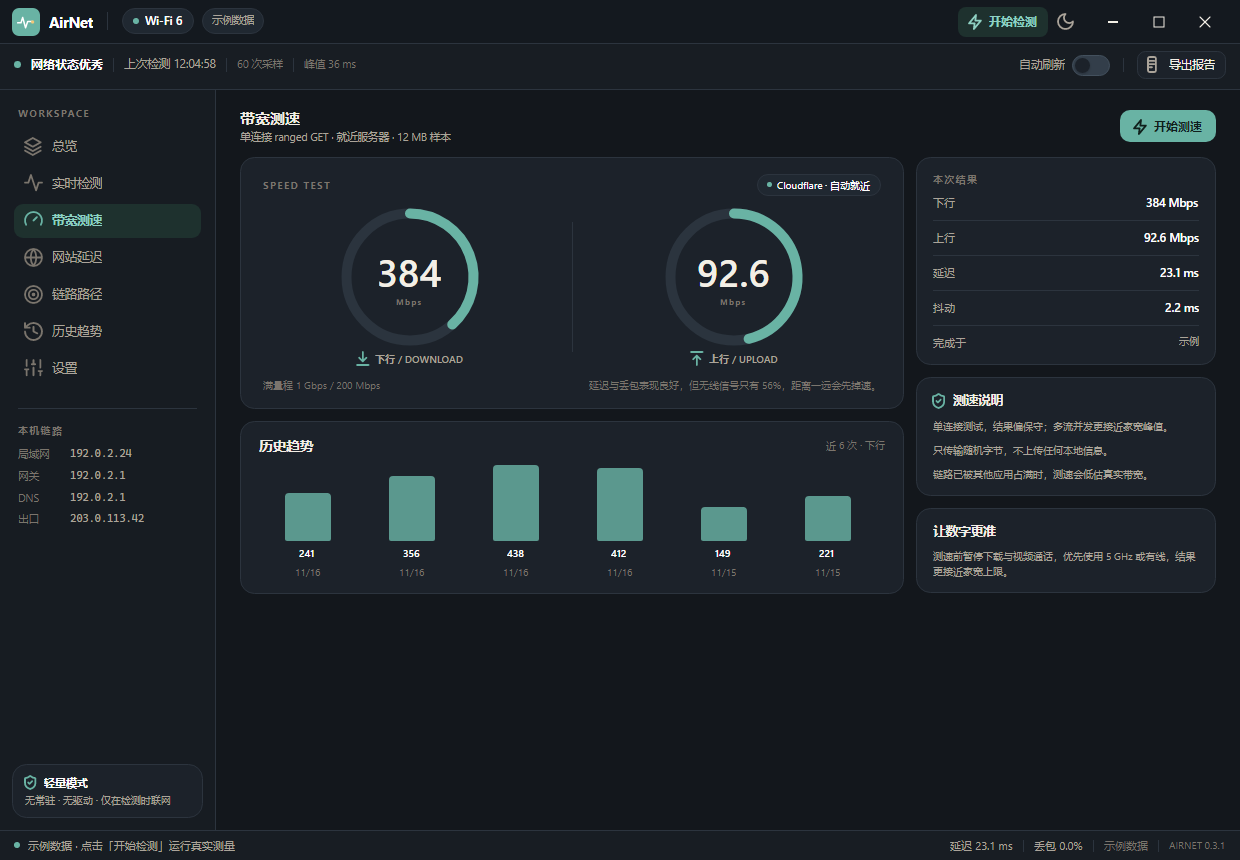
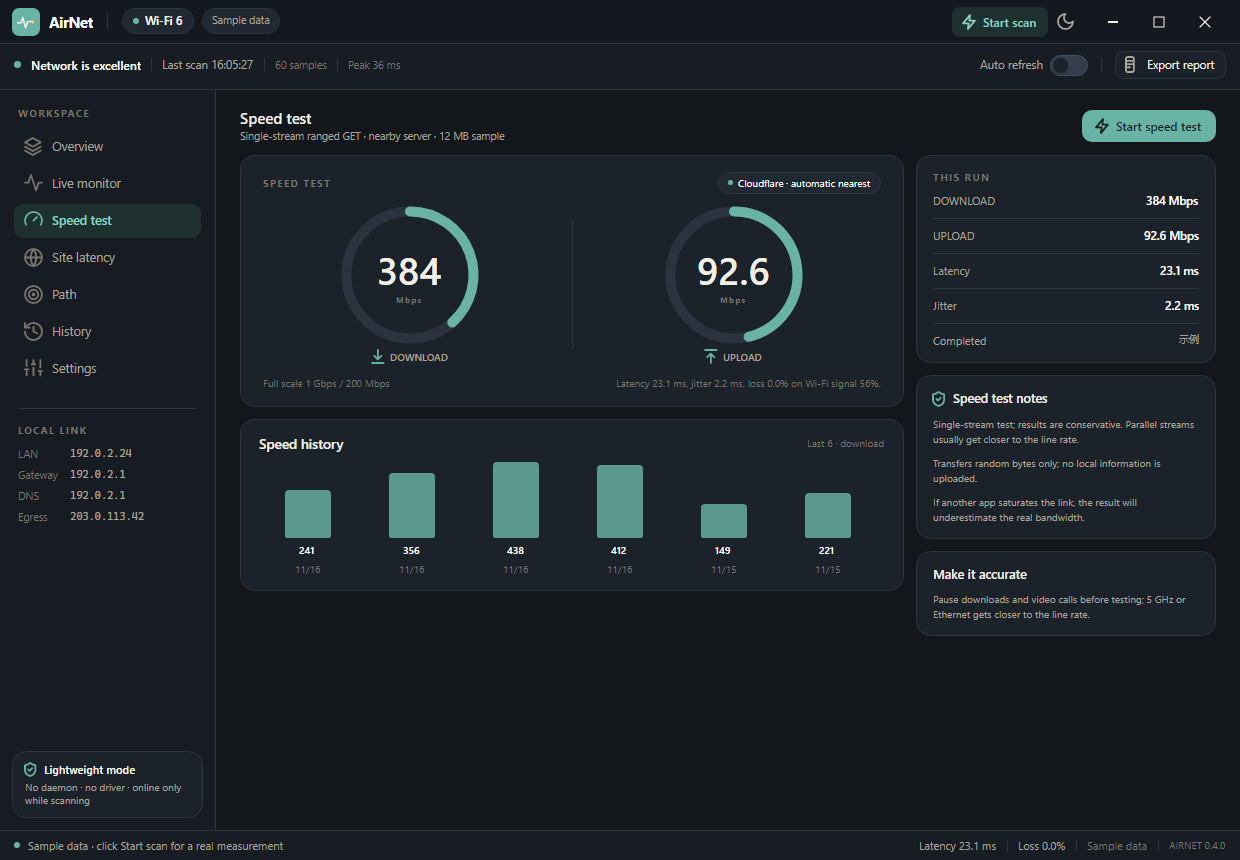
release: 0.4.0
Ship the Chinese/English UI, DNS audit, history A/B comparison, updated docs and screenshots; remove the headless CLI. Store package 1.1.0.0 is built and ready for Partner Center.

diff --git a/src/AirNet.App/ViewModels/SiteLatencyViewModel.cs b/src/AirNet.App/ViewModels/SiteLatencyViewModel.cs
@@ -154,21 +154,37 @@ public sealed class CustomSiteRow
 
 internal static class SiteBadge
 {
-    public static string For(SiteTarget target) => target.Id switch
-    {
-        "baidu" => "百",
-        "tencent" => "腾",
-        "douyin" => "抖",
-        "xiaohongshu" => "小",
-        "bilibili" => "哔",
-        "zhihu" => "知",
-        "weibo" => "微",
-        "github" => "GH",
-        "google" => "G",
-        "youtube" => "Y",
-        "x" => "X",
-        _ => string.IsNullOrEmpty(target.Name) ? "?" : target.Name[..1].ToUpperInvariant(),
-    };
+    public static string For(SiteTarget target) => LocalizationService.Current.IsChinese
+        ? target.Id switch
+        {
+            "baidu" => "百",
+            "tencent" => "腾",
+            "douyin" => "抖",
+            "xiaohongshu" => "小",
+            "bilibili" => "哔",
+            "zhihu" => "知",
+            "weibo" => "微",
+            "github" => "GH",
+            "google" => "G",
+            "youtube" => "Y",
+            "x" => "X",
+            _ => string.IsNullOrEmpty(target.Name) ? "?" : target.Name[..1].ToUpperInvariant(),
+        }
+        : target.Id switch
+        {
+            "baidu" => "B",
+            "tencent" => "T",
+            "douyin" => "D",
+            "xiaohongshu" => "X",
+            "bilibili" => "B",
+            "zhihu" => "Z",
+            "weibo" => "W",
+            "github" => "GH",
+            "google" => "G",
+            "youtube" => "Y",
+            "x" => "X",
+            _ => string.IsNullOrEmpty(target.Name) ? "?" : target.Name[..1].ToUpperInvariant(),
+        };
 }
 
 /// <summary>Page state for the on-demand site latency test and its custom-site manager.</summary>
@@ -450,7 +466,7 @@ public partial class SiteLatencyViewModel : ObservableObject
         _results.Clear();
         _lastReport = null;
         _sortByTotal = false;
-        TestStatusText = $"正在测试 {_catalog.Count} 个站点…";
+        TestStatusText = LocFmt("L.TestingSiteCount", _catalog.Count);
         RefreshRows();
         NotifySummary();
         IsTesting = true;
@@ -507,11 +523,11 @@ public partial class SiteLatencyViewModel : ObservableObject
         }
         catch (OperationCanceledException)
         {
-            TestStatusText = "测试已取消";
+            TestStatusText = T("L.TestCancelled");
         }
         catch (Exception ex)
         {
-            TestStatusText = $"测试失败：{ex.Message}";
+            TestStatusText = LocFmt("L.TestFailedFormat", ex.Message);
         }
         finally
         {
@@ -525,7 +541,7 @@ public partial class SiteLatencyViewModel : ObservableObject
     private void StopTest()
     {
         _cts?.Cancel();
-        TestStatusText = "正在停止…";
+        TestStatusText = T("L.Stopping");
     }
 
     [RelayCommand]
@@ -563,17 +579,17 @@ public partial class SiteLatencyViewModel : ObservableObject
 
         IsTestingDraft = true;
         DraftError = string.Empty;
-        DraftTestText = "测试中…";
+        DraftTestText = T("L.DraftTesting");
         try
         {
             var timing = await ApplicationTimingProbe.MeasureAsync(host, timeoutMs: 6000).ConfigureAwait(true);
             DraftTestText = timing.Succeeded
-                ? $"DNS {timing.DnsMs:0} · TCP {timing.TcpMs:0} · TLS {timing.TlsMs:0} · 首包 {timing.TtfbMs:0} = {timing.TotalMs:0} ms"
-                : timing.FailureNote ?? "测试失败";
+                ? LocFmt("L.DraftTiming", timing.DnsMs, timing.TcpMs, timing.TlsMs, timing.TtfbMs, timing.TotalMs)
+                : timing.FailureNote ?? T("L.TestFailed");
         }
         catch (Exception ex) when (ex is not OperationCanceledException)
         {
-            DraftTestText = $"测试失败：{ex.Message}";
+            DraftTestText = LocFmt("L.TestFailedFormat", ex.Message);
         }
         finally
         {
@@ -594,7 +610,7 @@ public partial class SiteLatencyViewModel : ObservableObject
 
         if (_editingId is null && next.Count >= CustomSiteRules.MaxCustomSites)
         {
-            DraftError = $"最多只能添加 {CustomSiteRules.MaxCustomSites} 个自定义站点";
+            DraftError = LocFmt("L.DraftMaxSites", CustomSiteRules.MaxCustomSites);
             return;
         }
 
@@ -639,11 +655,11 @@ public partial class SiteLatencyViewModel : ObservableObject
         _editingId = null;
         DraftName = string.Empty;
         DraftHost = string.Empty;
-        DraftError = persisted ? string.Empty : "站点已加入本次列表，但写入 sites.json 失败；重启后会丢失。";
+        DraftError = persisted ? string.Empty : T("L.DraftSaveFailed");
         DraftTestText = string.Empty;
         _shell.StatusMessage = persisted
-            ? $"已保存自定义站点：{target.Name}"
-            : $"自定义站点已加入列表，但写入 sites.json 失败：{target.Name}";
+            ? LocFmt("L.SiteSaved", target.Name)
+            : LocFmt("L.SiteSavedNoWrite", target.Name);
     }
 
     public void EditCustom(SiteTarget target)
@@ -666,11 +682,11 @@ public partial class SiteLatencyViewModel : ObservableObject
             _pendingDeleteId = null;
             var persisted = PersistCustom(remaining);
             _shell.StatusMessage = persisted
-                ? $"已删除自定义站点：{target.Name}"
-                : $"自定义站点已从列表移除，但写入 sites.json 失败：{target.Name}";
+                ? LocFmt("L.SiteDeleted", target.Name)
+                : LocFmt("L.SiteDeletedNoWrite", target.Name);
             if (!persisted)
             {
-                DraftError = "站点已从本次列表移除，但写入 sites.json 失败；重启后会恢复。";
+                DraftError = T("L.SiteDeleteFailed");
             }
 
             return;

diff --git a/src/AirNet.App/ViewModels/OverviewViewModel.cs b/src/AirNet.App/ViewModels/OverviewViewModel.cs
@@ -151,6 +151,19 @@ public partial class OverviewViewModel : ObservableObject
     private static string T(string key) => LocalizationService.Current.T(key);
     private static string Lfmt(string key, params object[] args) => LocalizationService.Current.Format(key, args);
 
+    private static string LocalizeNat(string summary)
+    {
+        if (LocalizationService.Current.IsChinese)
+        {
+            return summary;
+        }
+
+        return summary
+            .Replace("端口保持（锥形 NAT 可能）", "Port preserved (cone NAT likely)", StringComparison.Ordinal)
+            .Replace("端口变化（对称 NAT 可能）", "Port changes (symmetric NAT likely)", StringComparison.Ordinal)
+            .Replace(" · 映射地址变化", " · mapped address changes", StringComparison.Ordinal);
+    }
+
     private static string LocalizeInterfaceKind(string kind) => kind switch
     {
         "有线以太网" => T("L.Ethernet"),
@@ -182,6 +195,19 @@ public partial class MonitorViewModel : ObservableObject
 {
     private static string T(string key) => LocalizationService.Current.T(key);
     private static string Lfmt(string key, params object[] args) => LocalizationService.Current.Format(key, args);
+
+    private static string LocalizeNat(string summary)
+    {
+        if (LocalizationService.Current.IsChinese)
+        {
+            return summary;
+        }
+
+        return summary
+            .Replace("端口保持（锥形 NAT 可能）", "Port preserved (cone NAT likely)", StringComparison.Ordinal)
+            .Replace("端口变化（对称 NAT 可能）", "Port changes (symmetric NAT likely)", StringComparison.Ordinal)
+            .Replace(" · 映射地址变化", " · mapped address changes", StringComparison.Ordinal);
+    }
 
     private readonly List<double> _liveSeries = new();
     private string _liveSource = string.Empty;
@@ -353,8 +379,8 @@ public partial class MonitorViewModel : ObservableObject
             HasGameModeResult = true;
             GameModeHeadline = result.UdpReachable ? T("L.UdpReachable") : T("L.UdpUnreachable");
             GameModeDetail = result.UdpReachable
-                ? $"STUN RTT {result.RttMs:0.0} ms · {T("L.Jitter")} {result.JitterMs:0.0} ms · {T("L.Loss")} {result.LossPercent:0.0}% · {result.NatSummary}"
-                : $"{result.NatSummary} · {T("L.Target")} {result.Target}";
+                ? $"STUN RTT {result.RttMs:0.0} ms · {T("L.Jitter")} {result.JitterMs:0.0} ms · {T("L.Loss")} {result.LossPercent:0.0}% · {LocalizeNat(result.NatSummary)}"
+                : $"{LocalizeNat(result.NatSummary)} · {T("L.Target")} {result.Target}";
             ModeStatusText = result.UdpReachable ? T("L.GameDoneOk") : T("L.GameDoneFail");
         }
         catch (Exception ex)

diff --git a/src/AirNet.App/Localization/LocalizationService.cs b/src/AirNet.App/Localization/LocalizationService.cs
@@ -449,6 +449,25 @@ public sealed class LocalizationService
             ["L.HopReference"] = ("Reference host", "参考主机"),
             ["L.Unknown"] = ("Unknown", "未知"),
             ["L.WaitSegment"] = ("Wait", "等待"),
+            ["L.TestingSiteCount"] = ("Testing {0} sites…", "正在测试 {0} 个站点…"),
+            ["L.TestFailedFormat"] = ("Test failed: {0}", "测试失败：{0}"),
+            ["L.DraftTesting"] = ("Testing…", "测试中…"),
+            ["L.DraftTiming"] = ("DNS {0} · TCP {1} · TLS {2} · first byte {3} = {4} ms", "DNS {0} · TCP {1} · TLS {2} · 首包 {3} = {4} ms"),
+            ["L.DraftMaxSites"] = ("You can add at most {0} custom sites", "最多只能添加 {0} 个自定义站点"),
+            ["L.DraftSaveFailed"] = ("The site was added to this list, but writing sites.json failed; it will disappear after restart.", "站点已加入本次列表，但写入 sites.json 失败；重启后会丢失。"),
+            ["L.SiteSaved"] = ("Custom site saved: {0}", "已保存自定义站点：{0}"),
+            ["L.SiteSavedNoWrite"] = ("Custom site added, but writing sites.json failed: {0}", "自定义站点已加入列表，但写入 sites.json 失败：{0}"),
+            ["L.SiteDeleted"] = ("Custom site deleted: {0}", "已删除自定义站点：{0}"),
+            ["L.SiteDeletedNoWrite"] = ("Custom site removed, but writing sites.json failed: {0}", "自定义站点已从列表移除，但写入 sites.json 失败：{0}"),
+            ["L.SiteDeleteFailed"] = ("The site was removed from this list, but writing sites.json failed; it will return after restart.", "站点已从本次列表移除，但写入 sites.json 失败；重启后会恢复。"),
+            ["L.ExportReportTitle"] = ("Export AirNet report", "导出 AirNet 报告"),
+            ["L.HtmlReport"] = ("HTML report", "HTML 报告"),
+            ["L.ReportExported"] = ("Report exported: {0}", "报告已导出：{0}"),
+            ["L.DiagnosticCopyTitle"] = ("AirNet network diagnostics", "AirNet 网络诊断"),
+            ["L.DiagnosticCopyMeta"] = ("Time {0} · interface {1} · {2} → {3}", "时间 {0} · 接口 {1} · {2} → {3}"),
+            ["L.DiagnosticCopyScore"] = ("Score {0} / {1} · {2}", "评分 {0} / {1} · {2}"),
+            ["L.DiagnosticCopyLatency"] = ("Latency {0} ms (P95 {1}) · jitter {2} ms · loss {3}%", "延迟 {0} ms（P95 {1}）· 抖动 {2} ms · 丢包 {3}%"),
+            ["L.DiagnosticCopyBandwidth"] = ("Download {0} · egress {1}", "下载 {0} · 出口 {1}"),
             ["L.StartSpeedTest"] = ("Start speed test", "开始测速"),
             ["L.TestingSpeed"] = ("Testing…", "测速中…"),
             ["L.FullScale"] = ("Full scale 1 Gbps / 200 Mbps", "满量程 1 Gbps / 200 Mbps"),

diff --git a/src/AirNet.App/ViewModels/ShellViewModel.cs b/src/AirNet.App/ViewModels/ShellViewModel.cs
@@ -386,12 +386,12 @@ public partial class ShellViewModel : ObservableObject
     {
         var file = await top.StorageProvider.SaveFilePickerAsync(new FilePickerSaveOptions
         {
-            Title = "导出 AirNet 报告",
+            Title = T("L.ExportReportTitle"),
             SuggestedFileName = $"airnet-{DateTime.Now:yyyyMMdd-HHmm}",
             DefaultExtension = "html",
             FileTypeChoices =
             [
-                new FilePickerFileType("HTML 报告") { Patterns = ["*.html"] },
+                new FilePickerFileType(T("L.HtmlReport")) { Patterns = ["*.html"] },
             ],
         });
 
@@ -405,11 +405,13 @@ public partial class ShellViewModel : ObservableObject
     public string BuildDiagnosticText()
     {
         var builder = new System.Text.StringBuilder();
-        builder.AppendLine("AirNet 网络诊断");
-        builder.AppendLine($"时间 {View.CapturedAtText} · 接口 {View.InterfaceChip} · {View.LocalAddress} → {View.GatewayAddress}");
-        builder.AppendLine($"评分 {View.ScoreText} / {View.GradeLabel} · {View.Verdict}");
-        builder.AppendLine($"延迟 {View.LatencyAvgText} ms（P95 {View.LatencyP95Text}）· 抖动 {View.JitterText} ms · 丢包 {View.LossText}%");
-        builder.AppendLine($"下载 {View.DownloadText} · 出口 {View.EgressText}");
+        builder.AppendLine(T("L.DiagnosticCopyTitle"));
+        builder.AppendLine(Fmt("L.DiagnosticCopyMeta", View.CapturedAtText, View.InterfaceChip,
+            View.LocalAddress, View.GatewayAddress));
+        builder.AppendLine(Fmt("L.DiagnosticCopyScore", View.ScoreText, View.GradeLabel, View.Verdict));
+        builder.AppendLine(Fmt("L.DiagnosticCopyLatency", View.LatencyAvgText, View.LatencyP95Text,
+            View.JitterText, View.LossText));
+        builder.AppendLine(Fmt("L.DiagnosticCopyBandwidth", View.DownloadText, View.EgressText));
 
         foreach (var finding in View.Findings)
         {
@@ -435,7 +437,7 @@ public partial class ShellViewModel : ObservableObject
             trends: trends);
 
         await File.WriteAllTextAsync(path, html, System.Text.Encoding.UTF8).ConfigureAwait(true);
-        StatusMessage = $"报告已导出：{System.IO.Path.GetFileName(path)}";
+        StatusMessage = Fmt("L.ReportExported", System.IO.Path.GetFileName(path));
         return path;
     }
 

diff --git a/CHANGELOG.md b/CHANGELOG.md
@@ -3,24 +3,35 @@
 All notable changes are documented here. The format follows Keep a Changelog and the
 project uses semantic versioning for release tags.
 
-## [Unreleased]
+## [0.4.0] - 2026-11-16
+
+First release with a full runtime Chinese/English UI switch, DNS operation audit and
+two-run comparison. The Microsoft Store package for this source is `1.1.0.0`; it must be
+uploaded separately through Partner Center.
 
 ### Added
 
+- Runtime Chinese/English UI switch in Settings → Appearance; the choice is persisted.
+  Shell, overview, live monitor, speed, sites, path, history, settings, share card,
+  scan phases and the main dynamic statuses are translated.
 - `ProbeJson` now exposes `downloadMbps`/`uploadMbps` (additive, schema stays 1).
 - Settings now has a DNS dry-run action and a local `dns-operations.jsonl` audit trail.
 - History has an A/B comparison of any two stored runs (score, latency, jitter, loss,
   download, upload), not just the adjacent-run deltas.
-- English README and a runtime Chinese/English UI language switch.
+- English README.
 
 ### Changed
 
 - Removed the separate `AirNet.Cli` project and its agent documentation. The existing
   in-app `--probe --json` / `--sites` / `--report` flags remain.
-- Localized the shell status chips, settings statuses, site manager and share-card chrome;
-  English UI is still being completed for live page states.
 - `docs/FEATURES.md`, `docs/TECH_PLAN.md` and the README no longer claim macOS/Linux radio,
   cross-platform DNS, the history page or MSIX are unfinished.
+
+### Verified
+
+- 186 unit tests.
+- Windows AOT local validation: about 110–115 MB working set, 0.3–0.5 s startup.
+- Five-platform AOT assets are built by CI from the `v0.4.0` tag.
 
 ## [0.3.1] - 2026-11-16
 

diff --git a/docs/release/v0.4.0.md b/docs/release/v0.4.0.md
@@ -1,0 +1,32 @@
+## AirNet 0.4.0
+
+第一个带完整中英文切换的版本。**便携包 0.4.0，商店包 1.1.0.0**——商店包需在 Partner Center
+单独提交；本页先记录 GitHub 便携版。
+
+### 新增
+
+- **中文 / English 运行时切换**：设置 → 外观，选择写入 `settings.json`。
+  Shell、总览、实时检测、测速、站点、链路、历史、设置、分享卡片、扫描阶段和主要动态状态
+  均已英文化。
+- **DNS 安全预演与审计**：应用/还原前可预演命令；实际操作写本地
+  `dns-operations.jsonl`，并收进诊断包。
+- **历史 A/B 对比**：任选两条记录比较评分、延迟、抖动、丢包、上下行。
+- 英文 README。
+
+### 变更
+
+- 移除独立的 `AirNet.Cli` 项目及其 Agent 文档；应用自带
+  `--probe --json` / `--sites` / `--report` 参数保留。
+- 中英文切换不重建窗口，使用运行时资源字典。
+- 文档同步：186 项测试、Windows AOT 约 16.5MB / 0.3–0.5 s / 110–115MB。
+
+### 验证
+
+- 186 项单元测试。
+- Windows AOT 本地验证：约 110–115MB 工作集，0.3–0.5 s 启动。
+- 五平台 AOT 资产由 CI 从 `v0.4.0` tag 构建。
+
+### 已知
+
+- 少量低频 Core 文案（个别 NAT/错误详情、部分自定义站点校验）仍可能中文。
+- macOS 未签名/未公证；macOS 与 Linux arm64 仍未真机验证。

diff --git a/docs/FEATURES.md b/docs/FEATURES.md
@@ -121,7 +121,7 @@ title: 功能清单
 | F22 | **代理/VPN 识别** ✅ | 检测系统代理与隧道网卡，标注「经代理/经 VPN」 | 完成：代理只影响 HTTP 类测量、VPN 影响全部，两种说法分开；健康卡 chips 显式提示 |
 | F23 | **长期趋势** ✅ | 7/30 天延迟与评分曲线，凌晨/上午/下午/晚间时段观察 | 历史趋势页；数据来自 `history.jsonl`，不改写原始记录 |
 | F24 | **分享卡片** ✅ | 1080 × 1350 PNG，复用当前体检结论、分数和纸面视觉 | Overview「分享卡片」按钮；文件选择器保存 |
-| F25 | 多语言 🟡 | 中/英；英文 README 与 Agent 文档已完成，UI 字符串仍待抽到 `.resx` |
+| F25 | 多语言 🟡 | 中/英运行时切换已落地；主要页面、动态状态、分享卡片和错误提示已英文化，少量低频 Core 文案仍待补 |
 | F29 | **DNS 安全预演与审计** ✅ | 设置页「预演（不执行）」；应用/还原写 `dns-operations.jsonl`，并收进诊断包 |
 | F30 | **历史 A/B 对比** ✅ | 历史页任选两条记录比较评分、延迟、抖动、丢包、上下行 |
 

diff --git a/docs/AOT.md b/docs/AOT.md
@@ -46,19 +46,19 @@ AOT 不能用 `PublishSingleFile`，Windows 包内是：
 PDB 在打包时移除。移动时必须移动整个文件夹，不能只拿 `AirNet.exe`。
 macOS 仍然是 `AirNet.app`，Linux 仍然是 `AirNet/` + `run.sh`。
 
-## 2026-11-13 AOT 构建结果
+## 2026-11-16 AOT 构建结果
 
 Windows 本机运行验证：
 
 | 指标 | R2R 单文件 | Native AOT |
 | --- | --- | --- |
-| 压缩包 | 26.74 MB | **16.24 MB** |
-| exe | 25.5 MB | 25.7 MB |
-| 启动到窗口 | 约 1.3–1.9 s | **411 ms** |
-| 工作集 | 约 170–176 MB | **118.9 MB** |
+| 压缩包 | 26.74 MB | **约 16.5 MB** |
+| exe | 25.5 MB | 26.5 MB |
+| 启动到窗口 | 约 1.3–1.9 s | **0.3–0.5 s** |
+| 工作集 | 约 170–176 MB | **约 110–115 MB** |
 | `--probe --json` | ✅ | ✅ 退出码 0 |
 | `--selftest` | ✅ | ✅ 历史/双栈/逐跳正常 |
-| `--export` | ✅ 14 页 + 分享卡 | ✅ 14 页 + 分享卡 |
+| `--export` | ✅ | 15 张截图 |
 | GUI | ✅ | ✅ |
 
 CI 原生 runner 全平台 AOT 构建（workflow dispatch，未发 Release）：

diff --git a/README_EN.md b/README_EN.md
@@ -26,7 +26,7 @@ end? No driver, no resident agent, no account, no telemetry.
 | Channel | Version | Notes |
 | --- | --- | --- |
 | Microsoft Store | `1.0.0.0` | signed by Microsoft, Store updates |
-| GitHub portable | `0.3.1` | Windows zip, macOS zip, Linux tar.gz |
+| GitHub portable | `0.4.0` | Windows zip, macOS zip, Linux tar.gz |
 
 The Store build cannot self-elevate, so DNS changes are copy-the-command; the portable build
 keeps the one-click path on Windows, macOS (`osascript`) and Linux (`pkexec`).
@@ -43,7 +43,7 @@ powershell -File packaging/pack-aot.ps1
 
 ## Status
 
-`0.3.1` is the current portable/source line. `0.3.0` was the first dual-channel release; the
+`0.4.0` is the current portable/source line. `0.3.0` was the first dual-channel release; the
 Store package uses its own `1.0.x.0` line. macOS and Linux arm64 are experimental: CI builds
 them, but they have not been run on real hardware and are unsigned.
 

diff --git a/docs/CHANNELS.md b/docs/CHANNELS.md
@@ -29,6 +29,7 @@ Partner Center 的硬性要求只有三条：四段数字、末位为 0、每次
 | --- | --- | --- | --- |
 | `1.0.0.0` | `v0.3.0` | 2026-11-14 | **已上架**：[9NH3RQW622BK](https://apps.microsoft.com/detail/9NH3RQW622BK) —— 趋势页、分享卡片、MSIX 管线 |
 | —（商店未更新） | `v0.3.1` | 2026-11-16 | 便携包维护版：版本号改为读取运行程序集、文档测试数修正；商店继续提供 `1.0.0.0` |
+| `1.1.0.0` | `v0.4.0` | 2026-11-16 | **已构建，待 Partner Center 提交** —— 中英文 UI、DNS 预演/审计、历史 A/B |
 
 ### 应用内如何解释
 
